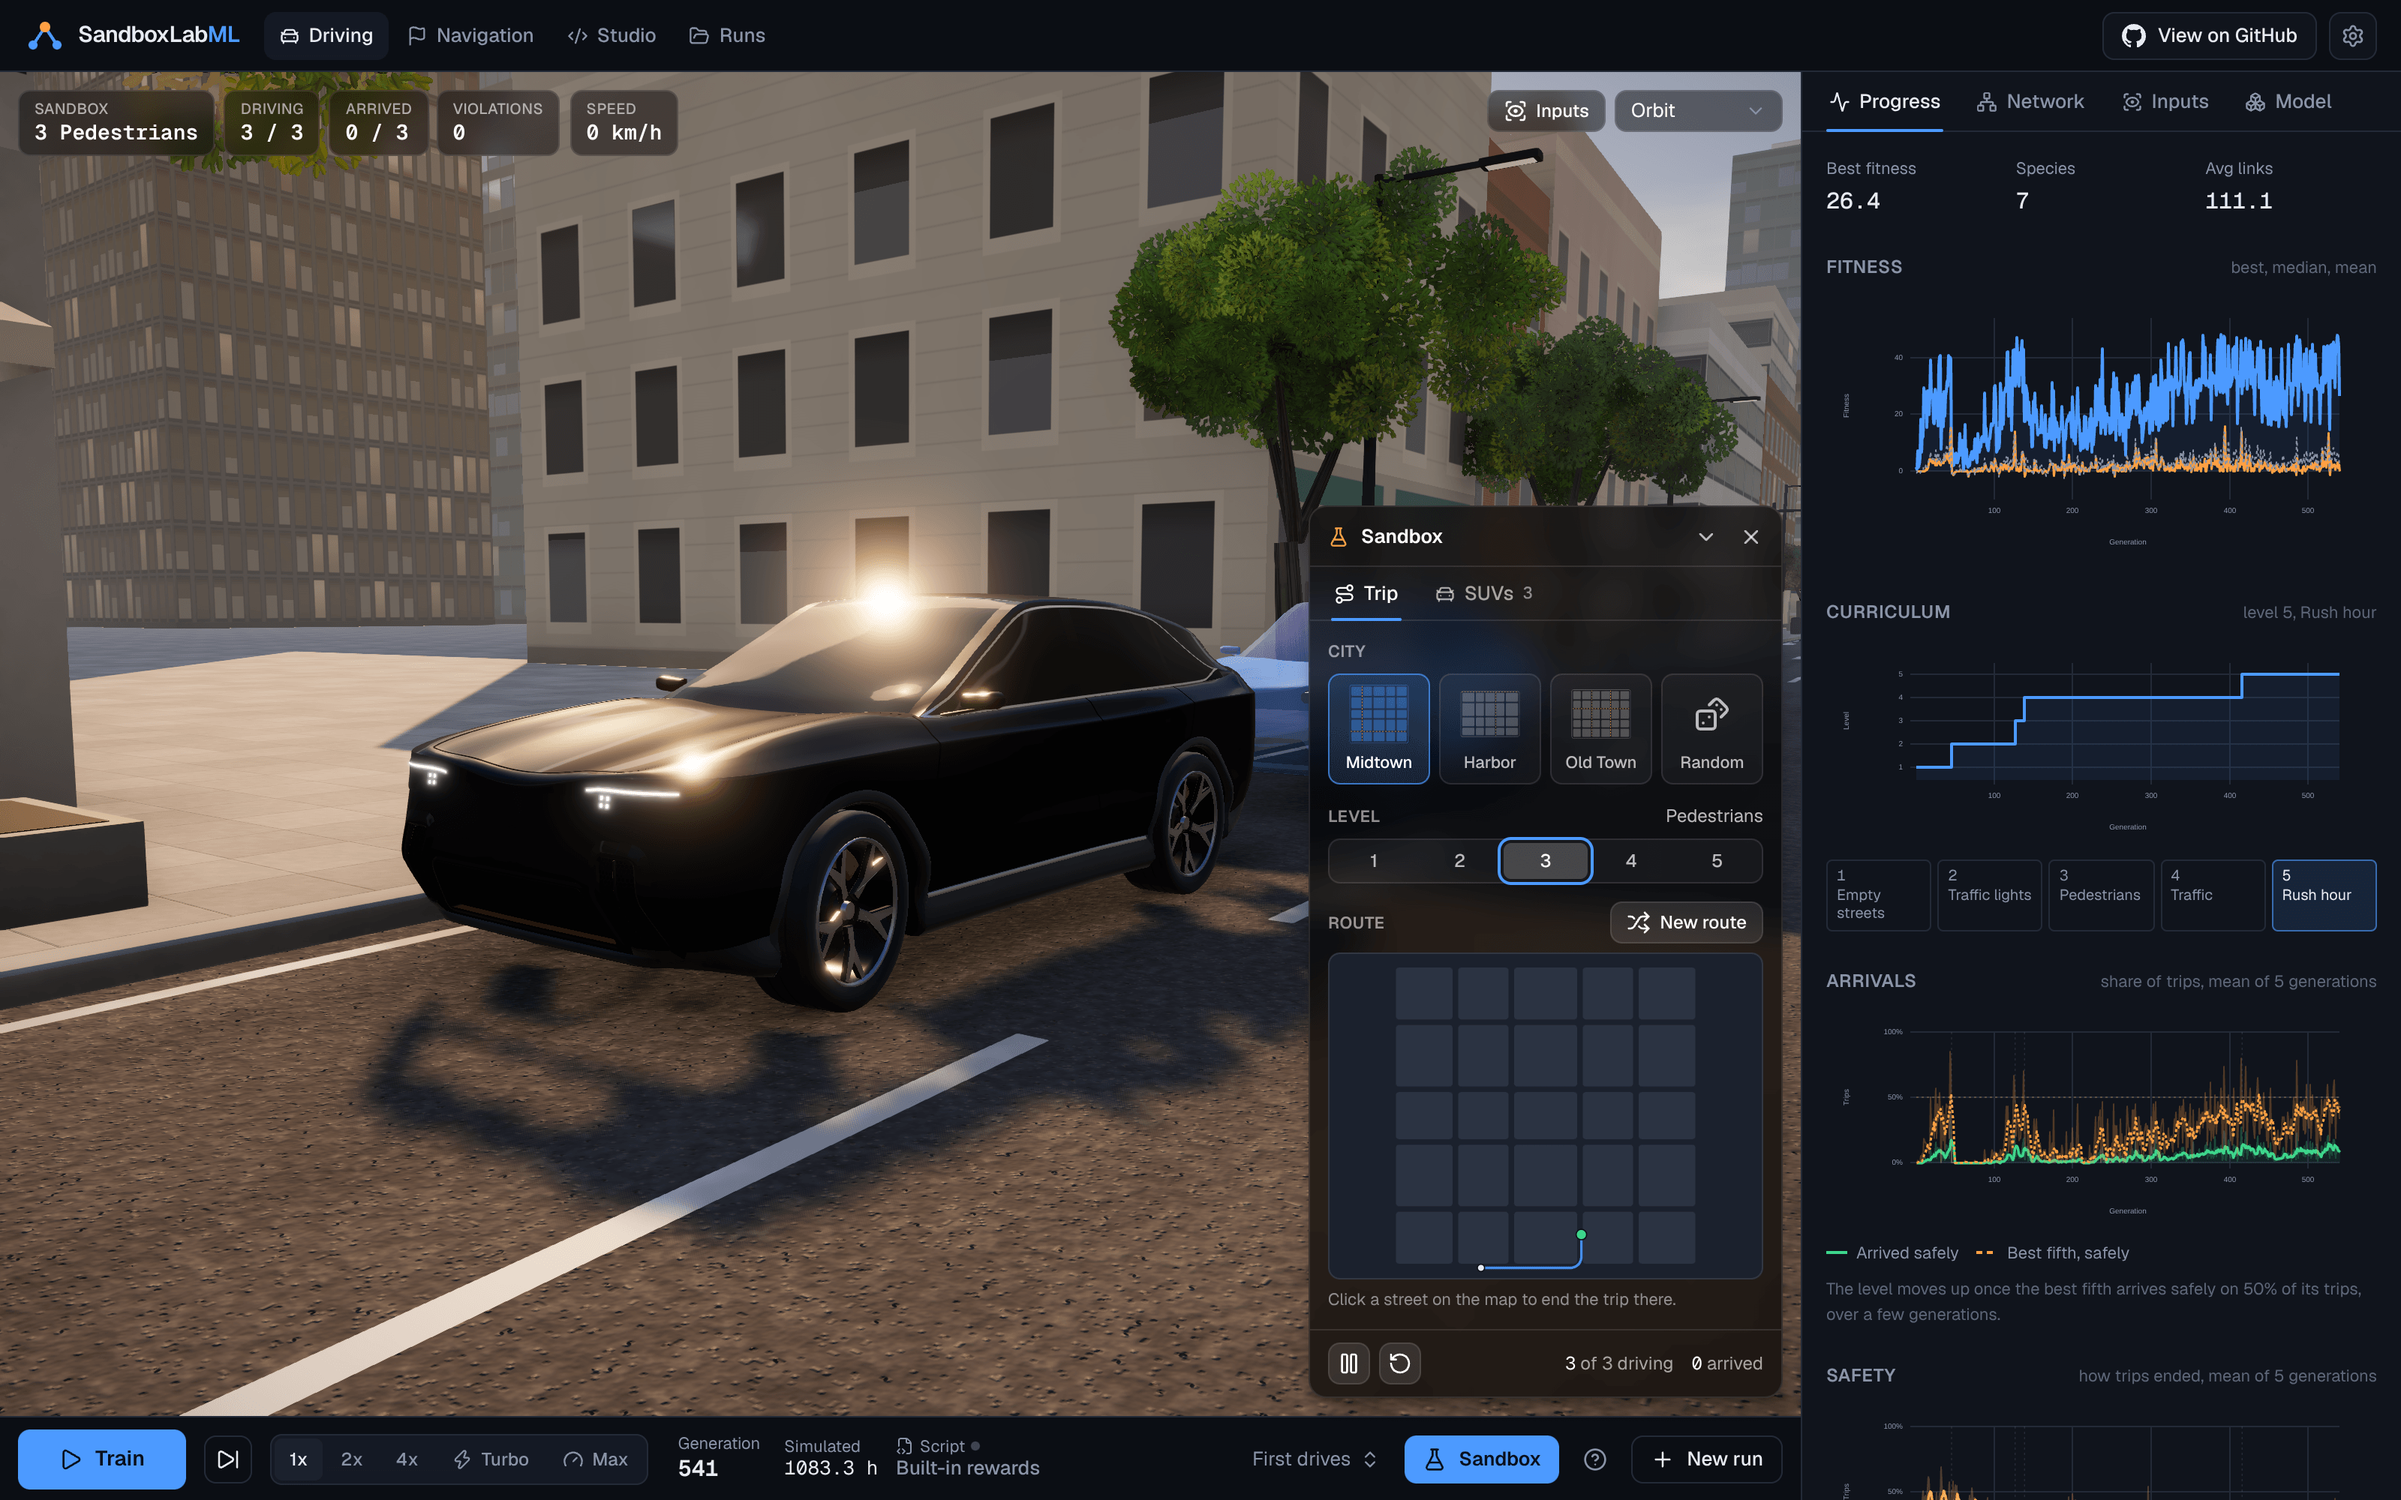
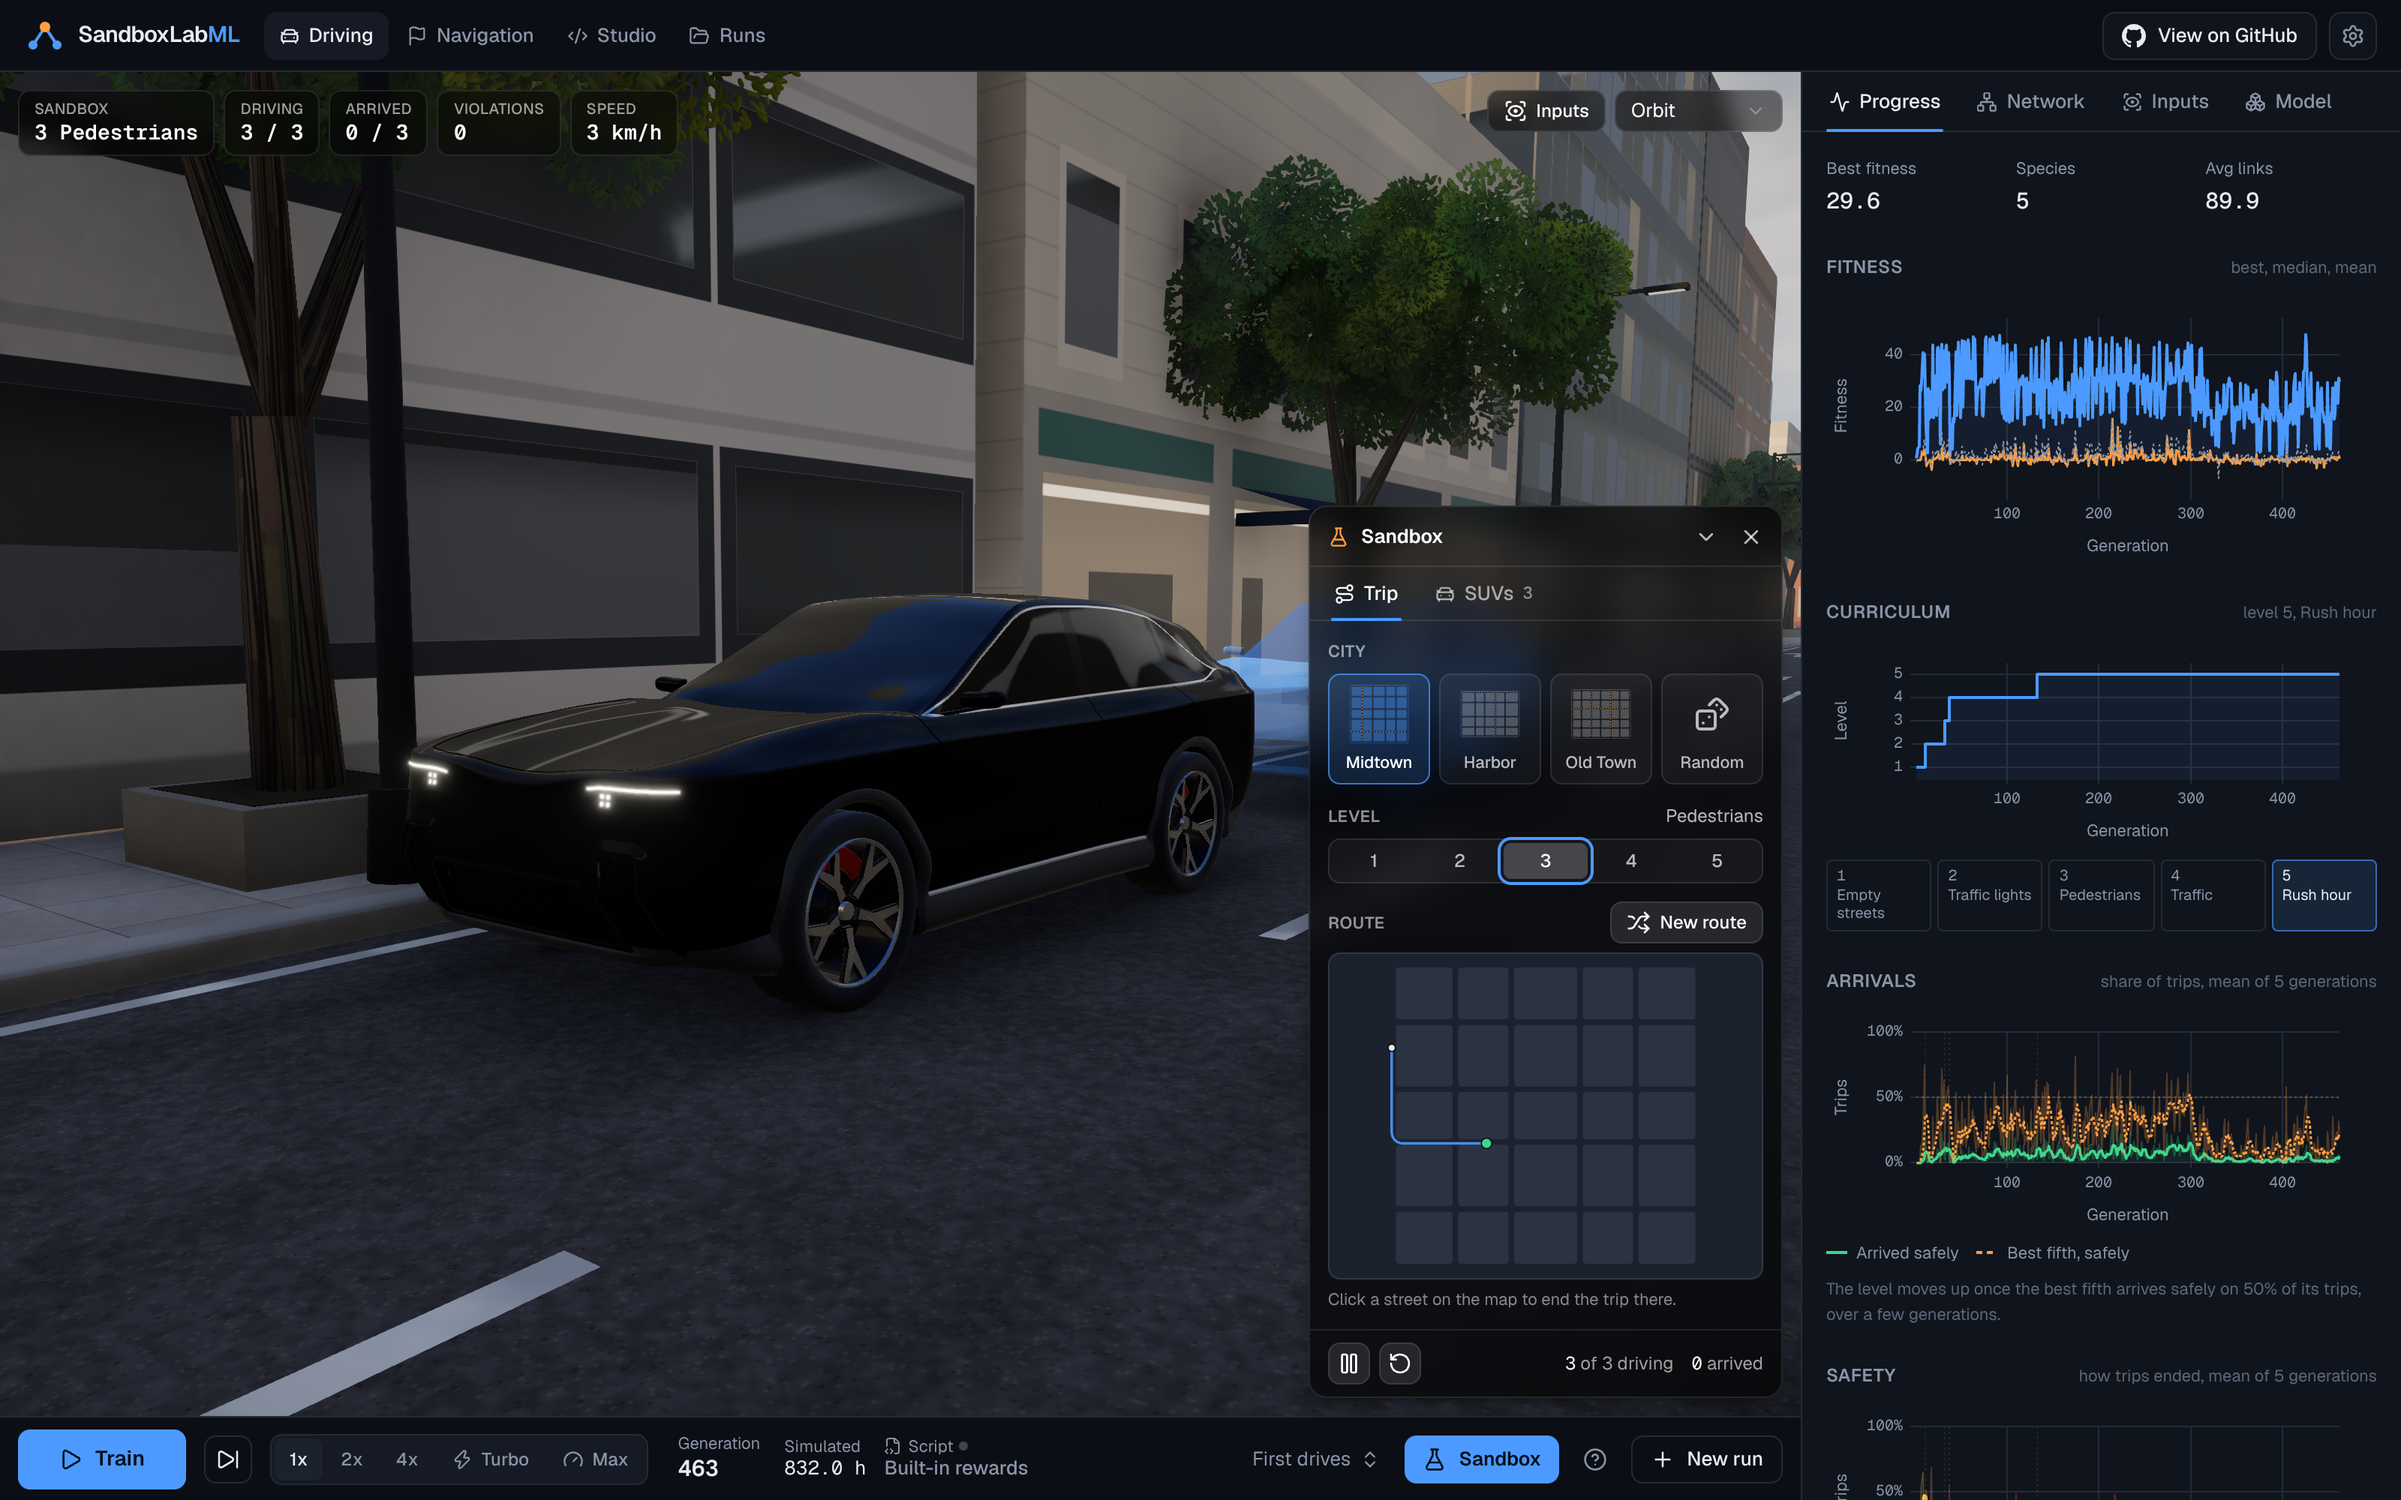
Retake every README screenshot as truecolour PNG
The old set was 256 colour palette PNG and dithered at full size. The
new shots come from fresh runs (Driving at rush hour, generation 463;
Navigation on the Gauntlet, generation 261), saved as 3200x2000 RGB
PNG with pixels identical to the captures. The chase shot is paused at
a red light, and its sensor card and HUD show the same tick. The brain
setup shows one dialog, the charts show their new readable axes, and
the alt text follows what each shot shows.

Claude-Session: https://claude.ai/code/session_01EmVWnswqzbVyRx3Yqy4QPc

diff --git a/README.md b/README.md
@@ -25,12 +25,12 @@ This is the loop that makes machine learning click. You shape the goal and press
 
 ## Screenshots
 
-![Driving lab: the chase camera behind the leading SUV as it brakes for a red light, with its lidar, the route drawn on the road, arrows where it will be next and boxes round the car and the people it sees](assets/screenshots/driving-chase.png)
+![Driving lab at rush hour: the chase camera behind the leading SUV as it brakes for a red light with a person crossing ahead, the route and arrows of where it will be next drawn on the road, and what it senses listed on the left](assets/screenshots/driving-chase.png)
 
 | | |
 | --- | --- |
-| ![Driving lab at rush hour from a street corner: traffic queued at the lights and a person walking past](assets/screenshots/driving-rush-hour.png) | ![Navigation lab following the champion runner and the crowd behind it through the Gauntlet, past sliding crates, walls and spikes, with the path hint and the arrow to the finish](assets/screenshots/navigation-gauntlet.png) |
-| ![Driving Sandbox: the trained SUV waits on a trip through Midtown, with the city map to pick where it goes](assets/screenshots/driving-sandbox.png) | ![Navigation Sandbox: copies of the trained runner weave between crates and spikes on the Gauntlet](assets/screenshots/navigation-sandbox.png) |
+| ![Driving lab at rush hour from a street corner: the followed SUV and a van at the junction while people walk past](assets/screenshots/driving-rush-hour.png) | ![Navigation lab following the leading runner and the crowd behind it near the end of the Gauntlet, past a sliding crate and spikes, with the path hint and the arrow to the finish](assets/screenshots/navigation-gauntlet.png) |
+| ![Driving Sandbox: the trained SUV sets off on a trip through Midtown, with the city map to pick where it goes](assets/screenshots/driving-sandbox.png) | ![Navigation Sandbox: copies of the trained runner weave between crates and spikes on the Gauntlet](assets/screenshots/navigation-sandbox.png) |
 | ![Navigation course editor with a copy of the Gauntlet: crates, walls, spikes and two movers](assets/screenshots/navigation-editor.png) | ![The home screen: a trained SUV stops for a person at a red light beside a trained runner crossing the Gauntlet, each with its live brain](assets/screenshots/landing.png) |
 | ![The first run walkthrough explaining the curriculum while the Driving lab trains at rush hour](assets/screenshots/walkthrough.png) | ![Script Studio in blocks view with the Driving Beginner preset and the Driving lessons](assets/screenshots/studio-blocks.png) |
 | ![Model tab: download the champion brain or the whole run, with the brain's size and how it grew](assets/screenshots/model-tab.png) | ![Brain setup: pick the sensors and start the brain with hidden layers](assets/screenshots/brain-setup.png) |
